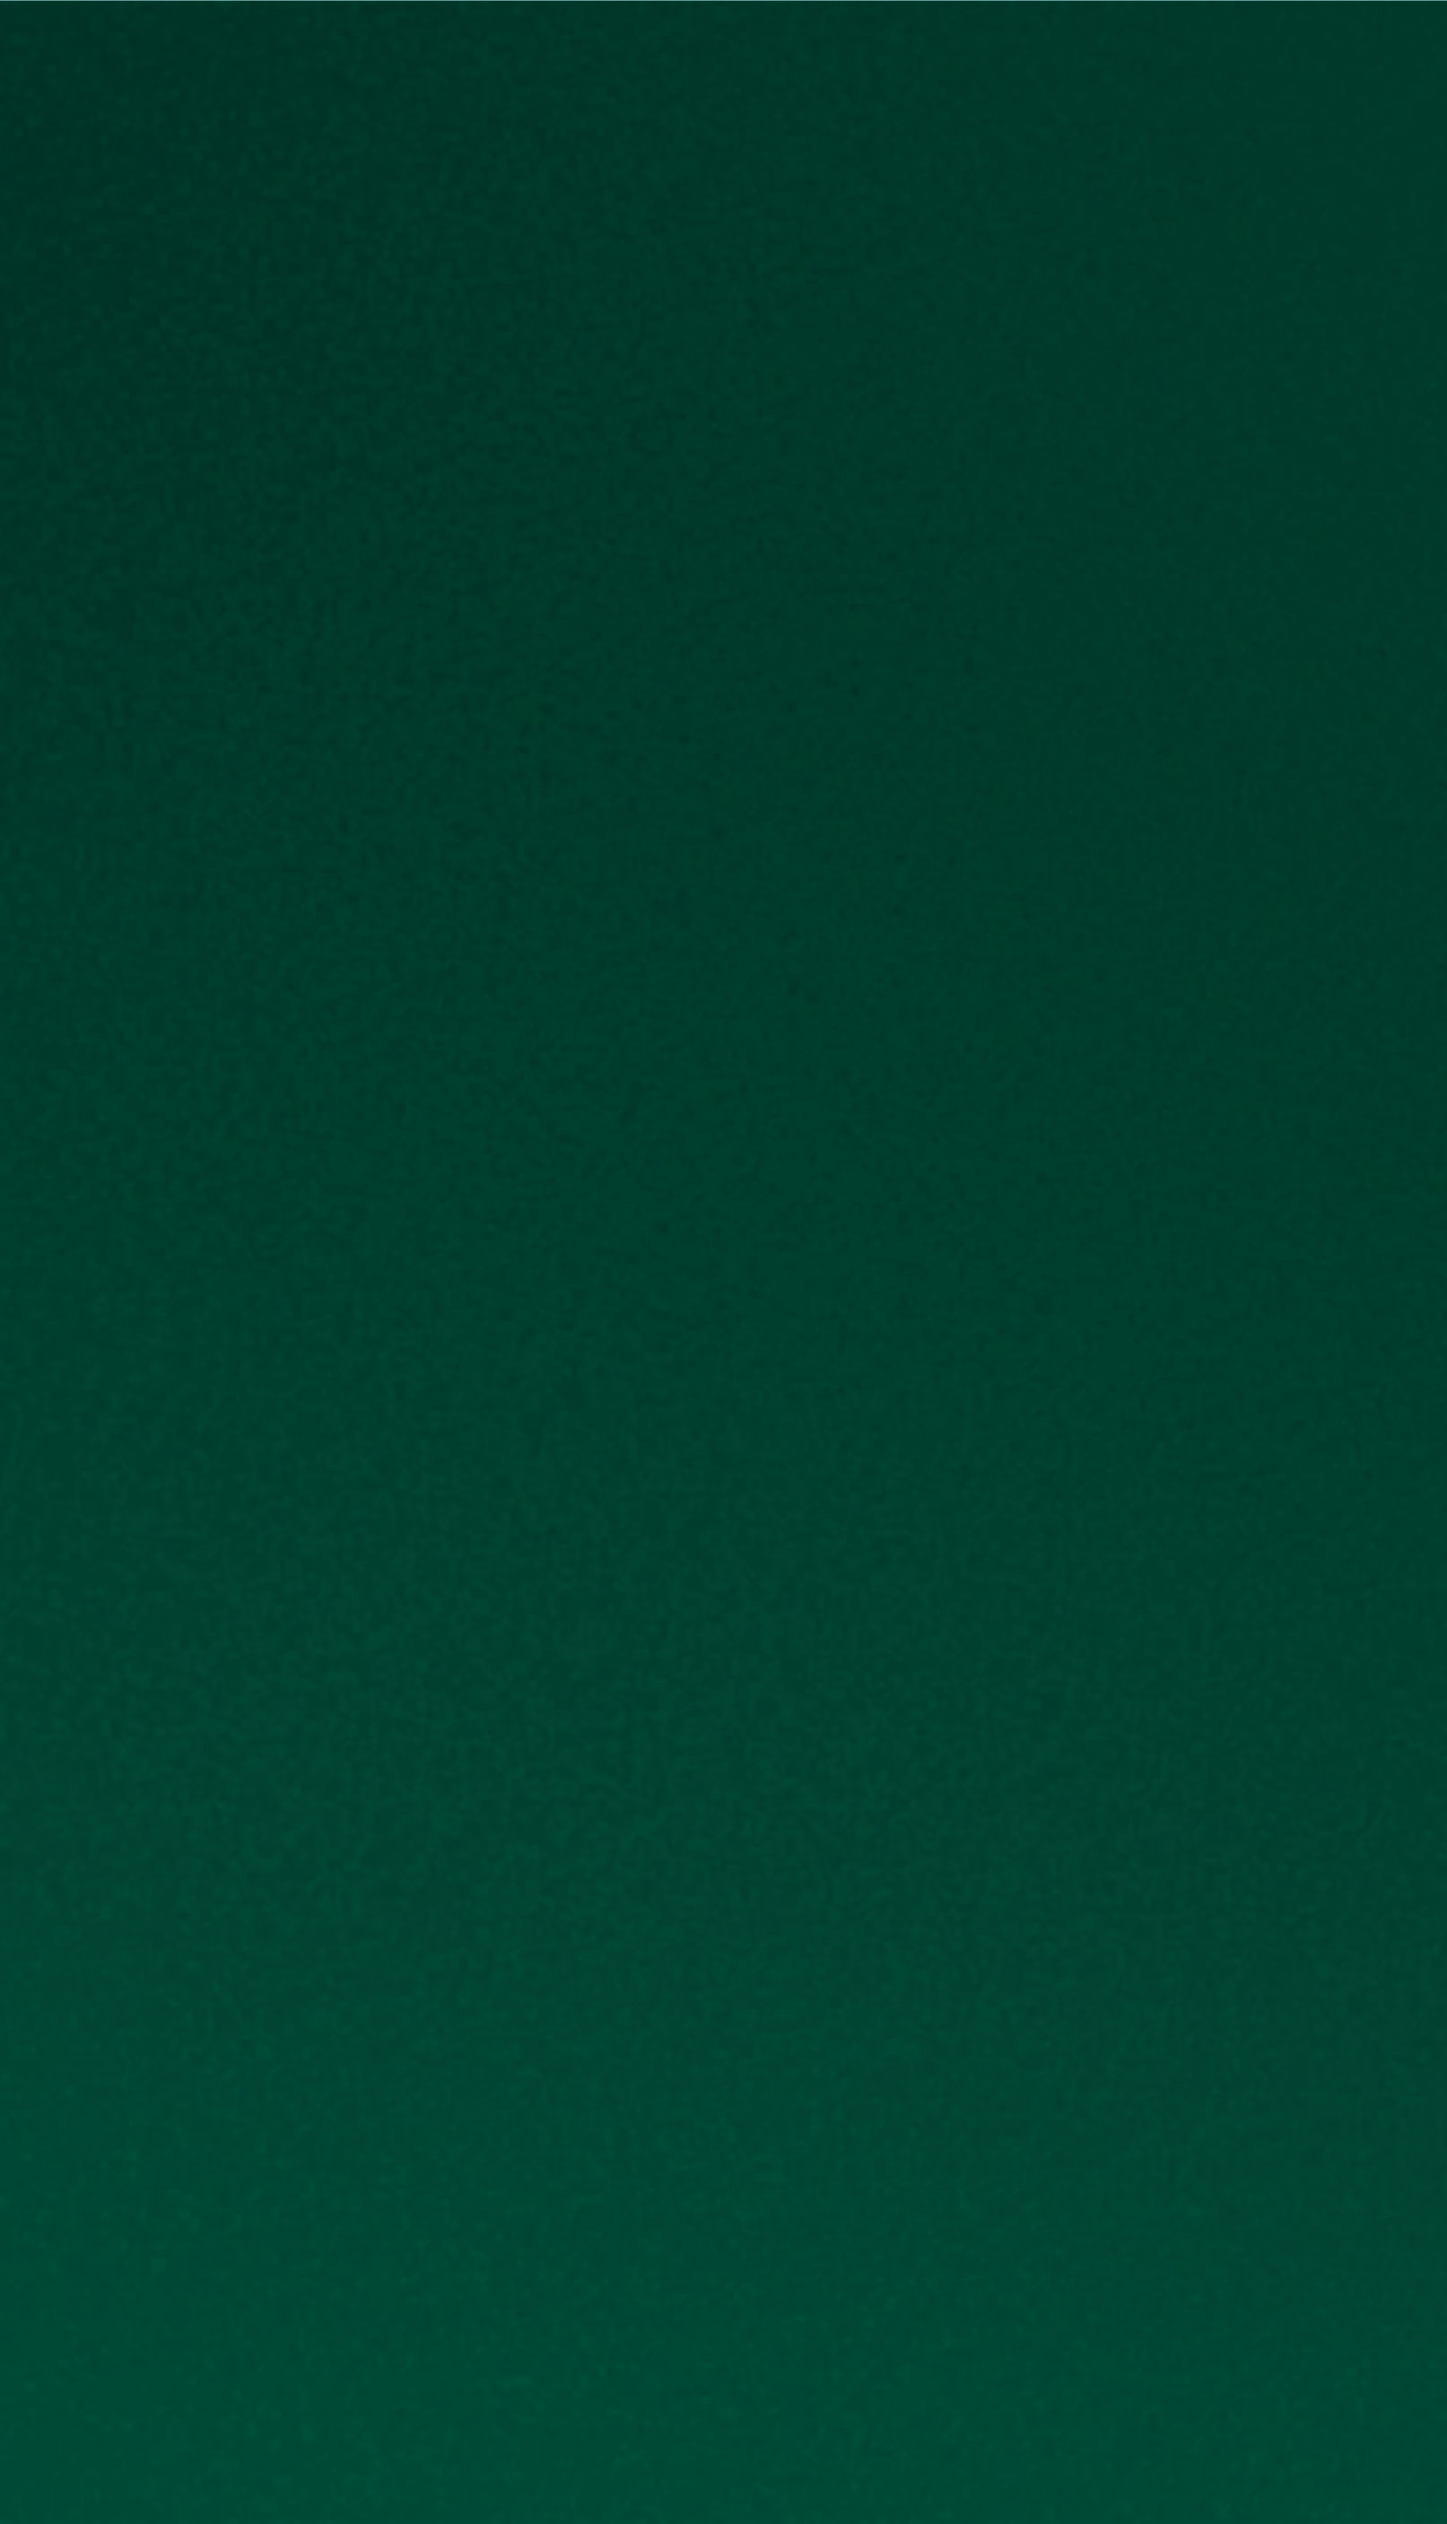
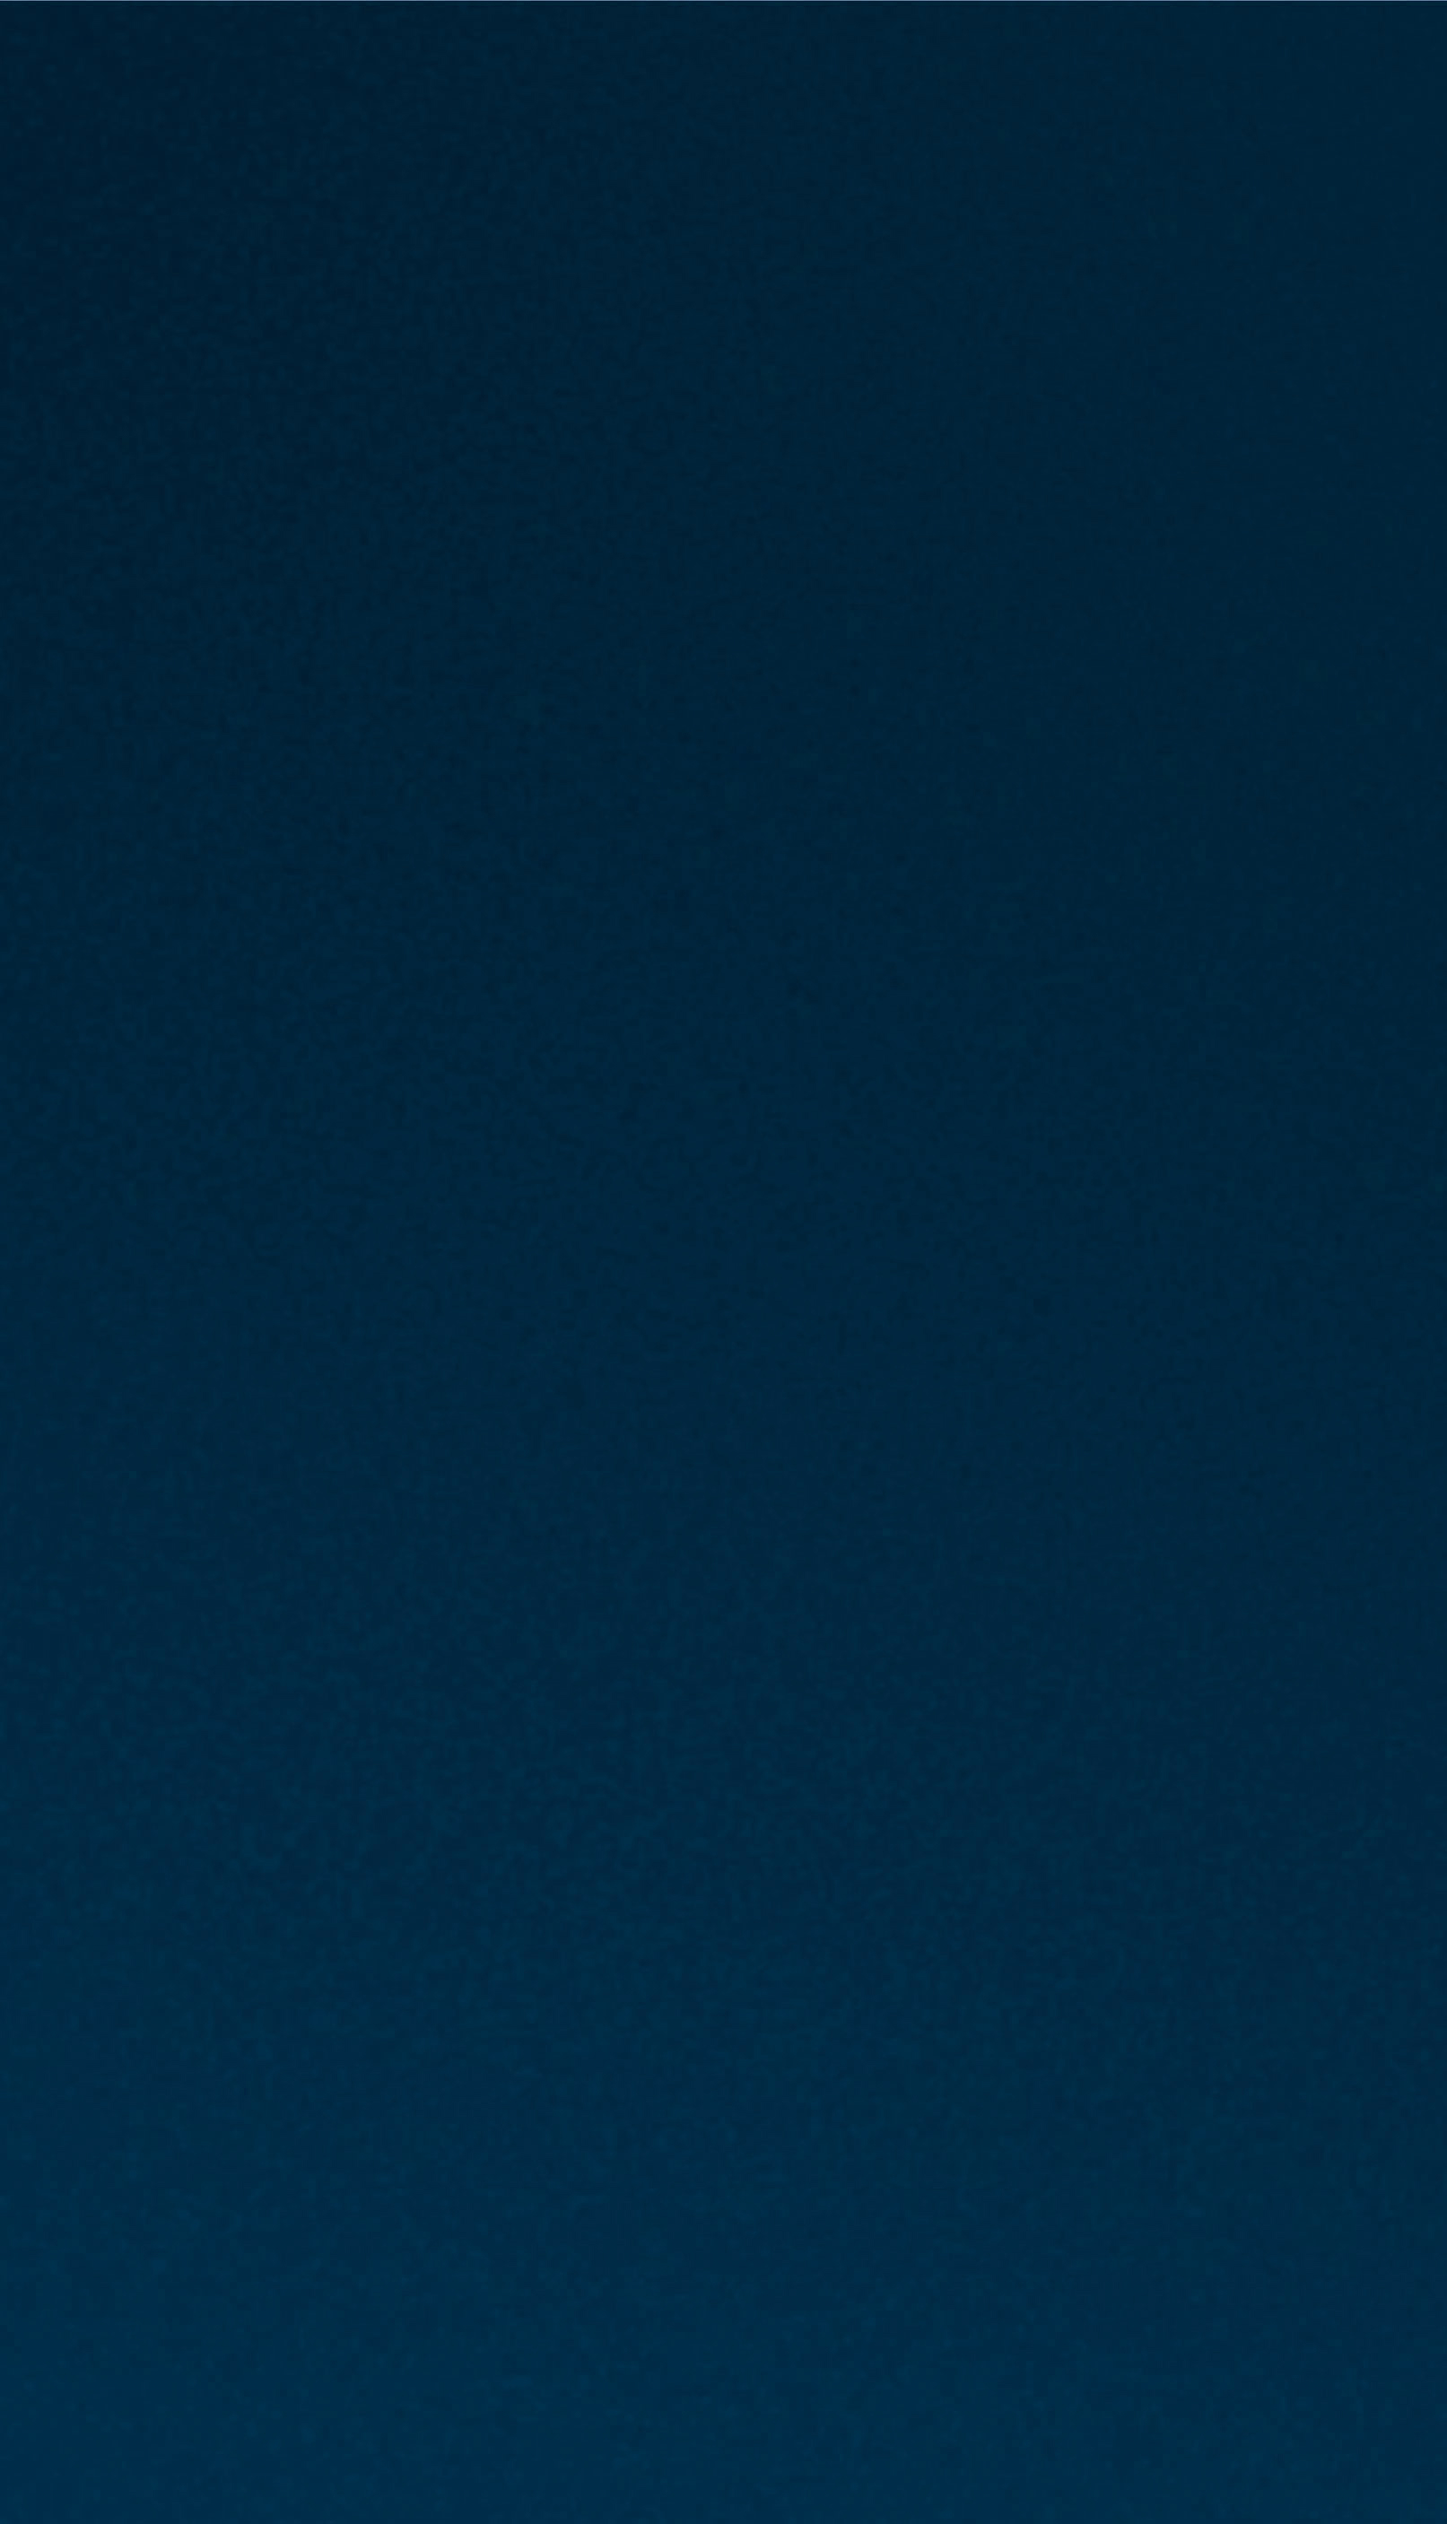
Actualización Publibike

diff --git a/css/ekobike.css b/css/ekobike.css
@@ -73,7 +73,7 @@ body{
 	background: url(../img/background-ekobike.jpg) no-repeat;
 	background-size: cover !important;
 	background-attachment: fixed;
-	background-color: #003322;
+	background-color: #001434;
 	padding: 20px;
 	height: auto;
 }
@@ -106,7 +106,7 @@ img{
 
 .footer-main hr{
 	width: 100%;
-	border-color: #479946;
+	border-color: #f9b410;
 	margin-top: -10px;
 }
 
@@ -144,19 +144,21 @@ img{
 }
 
 .form-login input[type=text]::placeholder{
-	color: #14805e;
+	color: #001434;
 	text-align: center;
 	font-size: 20px;
 }
 
 .form-login .ui.button{
-	background-color: #b39f40;
+	background-color: #f9b410;
+	padding: 10px 20px;
+	color: #001434;
 	font-size: 20px;
-	color: #fff;
 	text-transform: uppercase;
 	width: 100%;
-	border-radius: 50px !important;
 }
+
+
 
 .main-wrapper{
 	max-width: 640px;
@@ -182,11 +184,11 @@ img{
 }
 
 .content-profile ul li hr{
-	border-color: #479946;
+	border-color: #f9b410;
 }
 
 .content-profile .content-photo{
-	border: 1px solid #479946;
+	border: 1px solid #f9b410;
 	border-radius: 100%;
 	padding: 0;
 	align-items:; 
@@ -197,7 +199,7 @@ img{
 }
 
 .menu-ekobike{
-	background-color: #479946;
+	background-color: #001434;
 	position: fixed;
 	bottom: 0;
 	left: 0;
@@ -249,7 +251,7 @@ i.icon.play.circle:before{
 }
 
 .info-profile h2{
-	color: #b39f40;
+	color: #f9b410;
 	margin: 0 0 5px 0;
 }
 
@@ -267,7 +269,7 @@ i.icon.play.circle:before{
 .data-profile h4, .content-activity h4{
 	font-weight: regular;
 	text-align: left;
-	color: #479946;
+	color: #f9b410;
 	font-size: 16px;
 	margin-bottom: 0;
 }
@@ -275,7 +277,7 @@ i.icon.play.circle:before{
 .data-profile input{
 	background-color: transparent !important;
 	border: 0;
-	border-bottom: 1px solid #479946 !important;
+	border-bottom: 1px solid #f9b410 !important;
 	padding: 10px 0 !important;
 	color: #fff !important;
 }
@@ -290,13 +292,13 @@ i.icon.play.circle:before{
 }
 
 .btn-yellow{
-	background: #b39f40 !important;
-	color: #fff !important;
+	background: #f9b410 !important;
+	color: #001434 !important;
 	font-size: 16px;
 }
 
 .prize-profile h4{
-	color: #479946;
+	color: #f9b410;
 	text-align: left;
 	margin-top: 10px;
 	font-size: 16px;
@@ -321,7 +323,7 @@ i.icon.play.circle:before{
 
 .prize-content ul li i{
 	font-size: 45px;
-	color: #b39f40;
+	color: #f9b410;
 	display: block;
 	margin-bottom: 10px;
 }
@@ -337,7 +339,7 @@ i.icon.play.circle:before{
 }
 
 .prize-content.another h3 small a{
-	color: #479946;
+	color: #f9b410;
 	font-size: 16px;
 	display: block;
 }
@@ -352,16 +354,16 @@ i.icon.play.circle:before{
 }
 
 .content-activity .column:first-child{
-	border-right: 1px solid #479946;
-	border-bottom: 1px solid #479946;
+	border-right: 1px solid #f9b410;
+	border-bottom: 1px solid #f9b410;
 }
 
 .content-activity .column:nth-child(2){
-	border-bottom: 1px solid #479946;
+	border-bottom: 1px solid #f9b410;
 }
 
 .content-activity .column:nth-child(3){
-	border-right: 1px solid #479946;
+	border-right: 1px solid #f9b410;
 }
 
 
@@ -383,7 +385,7 @@ i.icon.play.circle:before{
 .data-activity h5{
 	font-size: 20px;
 	font-weight: lighter;
-	color: #b39f40;
+	color: #f9b410;
 }
 
 .button-start{
@@ -414,7 +416,7 @@ i.icon.play.circle:before{
 	content: " ";
 	width: 20px;
 	height: 2px;
-	background-color: #b39f40;
+	background-color: #f9b410;
 }
 
 .title-section i{
@@ -430,13 +432,13 @@ i.icon.play.circle:before{
 	font-size: 16px;
 }
 .ui.celled.grid>.column:not(.row), .ui.celled.grid>.row>.column {
-    -webkit-box-shadow: -1px 0 0 0 #479946;
-    box-shadow: -1px 0 0 0 #479946;
+    -webkit-box-shadow: -1px 0 0 0 #f9b410;
+    box-shadow: -1px 0 0 0 #f9b410;
 }
 
 .ui.celled.grid>.row{
-	-webkit-box-shadow: 0 -1px 0 0 #479946;
-    box-shadow: 0 -1px 0 0 #479946;
+	-webkit-box-shadow: 0 -1px 0 0 #f9b410;
+    box-shadow: 0 -1px 0 0 #f9b410;
 
 }
 
@@ -489,7 +491,7 @@ i.icon.play.circle:before{
 }
 
 .content-play .distance h5{
-	color: #14805e;
+	color: #001434;
 	margin-bottom: 0;
 	font-size: 16px;
 }
@@ -505,7 +507,7 @@ i.icon.play.circle:before{
 .content-play .distance h4{
 	display: inline-block;
 	font-size: 20px;
-	color: #14805e;
+	color: #001434;
 	vertical-align: middle;
 	margin: 0;
 }
@@ -520,7 +522,7 @@ i.icon.play.circle:before{
 }
 
 .chrono h5{
-	color: #14805e;
+	color: #001434;
 }
 
 .chrono h2, .chrono h5{
@@ -531,7 +533,7 @@ i.icon.play.circle:before{
 
 .chrono h4{
 	font-size: 16px;
-	color: #14805e;
+	color: #001434;
 	margin: 0;
 }
 

diff --git a/css/ekobike-admin.css b/css/ekobike-admin.css
@@ -85,7 +85,7 @@ body{
 }
 
 .ui.inverted.menu{
-	background-color: #14805e !important;
+	background-color: #001434 !important;
 }
 
 .logo-ekobike{
@@ -121,7 +121,7 @@ body{
 }
 
 .tabla-ekobike thead{
-	background-color: #14805e;
+	background-color: #001434;
 	color: #fff;
 }
 
@@ -168,7 +168,7 @@ body{
 }
 
 .content-activity .column{
-	border-bottom: 1px solid #479946;
+	border-bottom: 1px solid #001434;
 }
 
 
@@ -180,7 +180,7 @@ body{
 }
 
 .content-activity h4{
-	color: #479946;
+	color: #001434;
 	font-weight: lighter;
 	font-size: 16px;
 }
@@ -203,7 +203,7 @@ body{
 .data-activity h5{
 	font-size: 20px;
 	font-weight: lighter;
-	color: #b39f40;
+	color: #f9b410;
 }
 
 .user-data h4{
@@ -240,11 +240,11 @@ body{
 
 #rutas .ui.secondary.menu .item{
 	background-color:  #f0efef;
-	color: #479946;
+	color: #001434;
 }
 
 #rutas .ui.secondary.menu .item.active{
-	background-color:  #479946;
+	background-color:  #001434;
 	color: #f0efef;
 }
 
@@ -256,7 +256,7 @@ body{
 
 .date-rute h3{
 	font-size: 32px !important;
-	color: #479946 !important;
+	color: #001434 !important;
 }
 
 .prize-content{
@@ -271,14 +271,14 @@ body{
 .prize-content ul li {
     display: inline-block;
     padding: 20px;
-    color: #479946;
+    color: #001434;
     font-size: 16px;
     text-align: center;
 }
 
 .prize-content ul li i{
 	font-size: 45px;
-	color: #b39f40;
+	color: #f9b410;
 	display: block;
 	margin-bottom: 10px;
 }

diff --git a/index.html b/index.html
@@ -37,7 +37,7 @@
 
 	.contenedor-ekobike img, .contenedor-publibike img{
 		max-width: 150px;
-		padding: 50px;
+		padding: 50px 50px 0px 50px;
 		margin-top: 10%;
 	}
 	.contenedor-ekobike{
@@ -51,17 +51,17 @@
 		max-height: 50%;
 		width: 100%;
 	}
-	.contenedor-publibike a{
-		background-color: #e6de00;
+	.contenedor-publibike a, .contenedor-ekobike a{
+		background-color: #f9b410;
 		padding: 10px 20px;
 		color: #001434;
 	}
-	.contenedor-ekobike a{
-		background-color: #b39f40;
-		padding: 10px 20px;
-		color: #fff;
-		border-radius: 50px;
+
+	.contenedor-publibike h3, .contenedor-ekobike h3{
+		color: #f9b410;
+		margin-top: 0;
 	}
+
 	.contenedor-publibike{
 		background: url(img/background-publibike.jpg) no-repeat;
 		background-size: cover !important;
@@ -83,13 +83,15 @@
 	<div class="contenedor">
 		 <div class="contenedor-ekobike">
 		   	<div class="logo-ekobike">
-				<img src="img/logo-ekobike.png">
+				<img src="img/logo-publibike.png">
+				<h3>Marca</h3>
 			</div>
 			<a href="ekobike/index.html">VER APP</a>
 		</div>
 		<div class="contenedor-publibike">
 		   	<div class="logo-publibike">
 				<img src="img/logo-publibike.png">
+				<h3>Colaborador</h3>
 			</div>
 			<a href="publibike/index.html">VER APP</a>
 		</div>

diff --git a/README.md b/README.md
@@ -1,0 +1,3 @@
+# Publibike
+
+Aplicación móvil Publibike
